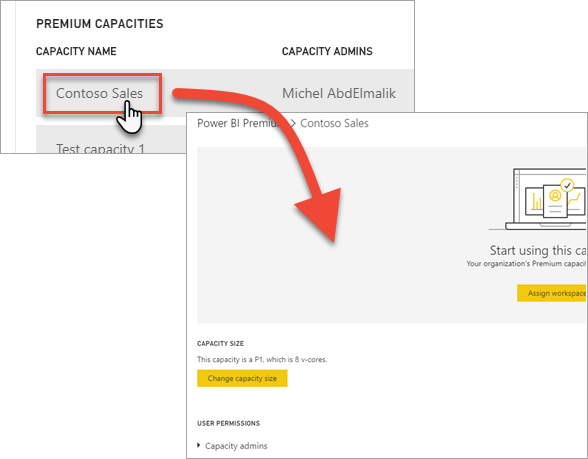
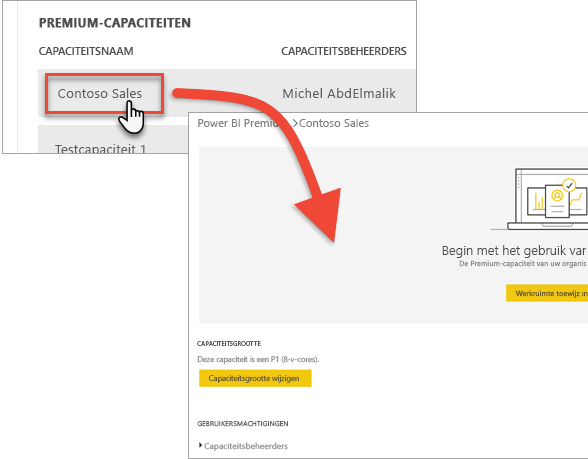
commit translated contents

diff --git a/powerbi-docs/collaborate-share/service-new-workspaces.md b/powerbi-docs/collaborate-share/service-new-workspaces.md
@@ -9,34 +9,34 @@ ms.topic: conceptual
 ms.date: 05/07/2020
 ms.author: maggies
 LocalizationGroup: Share your work
-ms.openlocfilehash: c534a72594692c5cf404b095492e7d6425f23329
-ms.sourcegitcommit: 0e9e211082eca7fd939803e0cd9c6b114af2f90a
+ms.openlocfilehash: 701f478ce4dd59d77c1722b1386cd79ad3fbf2a0
+ms.sourcegitcommit: 250242fd6346b60b0eda7a314944363c0bacaca8
 ms.translationtype: HT
 ms.contentlocale: nl-NL
-ms.lasthandoff: 05/13/2020
-ms.locfileid: "83273656"
+ms.lasthandoff: 05/20/2020
+ms.locfileid: "83693774"
 ---
 # <a name="organize-work-in-the-new-workspaces-in-power-bi"></a>Werk organiseren in de nieuwe werkruimten in Power BI
 
 *Werkruimten* zijn plekken waar u met collega’s kunt samenwerken om verzamelingen dashboards, rapporten, gegevenssets en gepagineerde rapporten te maken. De nieuwe werkruimte-ervaring helpt om de toegang tot inhoud beter te beheren. Dit artikel beschrijft de nieuwe werkruimten, en hoe deze verschillen van de klassieke werkruimten.  Net als de klassieke werkruimten gebruikt u de nieuwe werkruimten ook om apps te maken en distribueren. Klaar om een nieuwe werkruimte te maken? Lees [Werkruimten maken (nieuwe werkruimte-ervaring)](service-create-the-new-workspaces.md).
 
-Nieuwe werkruimten kunnen naast bestaande klassieke werkruimten worden gebruikt. De nieuwe werkruimte-ervaring is het standaardtype werkruimte. Zo nodig kunt u nog steeds [klassieke werkruimten](service-create-workspaces.md) op basis van Office 365-groepen maken en gebruiken. Klaar om uw klassieke werkruimte te migreren? Zie [Een upgrade uitvoeren van de klassieke werkruimten naar de nieuwe werkruimten in Power BI](service-upgrade-workspaces.md) voor meer informatie.
+Nieuwe werkruimten kunnen naast bestaande klassieke werkruimten worden gebruikt. De nieuwe werkruimte-ervaring is het standaardtype werkruimte. Zo nodig kunt u nog steeds [klassieke werkruimten](service-create-workspaces.md) op basis van Microsoft 365-groepen maken en gebruiken. Klaar om uw klassieke werkruimte te migreren? Zie [Een upgrade uitvoeren van de klassieke werkruimten naar de nieuwe werkruimten in Power BI](service-upgrade-workspaces.md) voor meer informatie.
 
 Met de nieuwe werkruimten kunt u het volgende doen:
 
-- Werkruimterollen toewijzen aan gebruikersgroepen: beveiligingsgroepen, distributielijsten, Office 365-groepen en personen.
-- Een werkruimte in Power BI maken zonder een onderliggende, gekoppelde Office 365-groep te maken. Alle werkruimtebeheer vindt plaats in Power BI, niet in Office 365.
-- Desgewenst kunt u doorgaan het beheren van de gebruikerstoegang tot inhoud via Office 365-groepen. Hiertoe hoeft u slechts een Office 365-groep toe te voegen aan de toegangslijst voor de werkruimte.
+- Werkruimterollen toewijzen aan gebruikersgroepen: beveiligingsgroepen, distributielijsten, Microsoft 365-groepen en personen.
+- Een werkruimte in Power BI maken zonder een onderliggende, gekoppelde Microsoft 365-groep te maken. Alle werkruimtebeheer vindt plaats in Power BI, niet in Microsoft 365.
+- Desgewenst kunt u doorgaan met het beheren van de gebruikerstoegang tot inhoud via Microsoft 365-groepen. Hiertoe hoeft u slechts een Microsoft 365-groep toe te voegen aan de toegangslijst voor de werkruimte.
 - Meer gedetailleerde werkruimterollen gebruiken voor flexibeler beheer van machtigingen in een werkruimte.
 
-In Power BI worden nog steeds alle Office 365-groepen weergegeven waarvan u lid bent. Hiermee wordt voorkomen dat bestaande werkstromen moeten worden gewijzigd.
+In Power BI worden nog steeds alle Microsoft 365-groepen weergegeven waarvan u lid bent. Hiermee wordt voorkomen dat bestaande werkstromen moeten worden gewijzigd.
 
 ## <a name="new-and-classic-workspace-differences"></a>Verschillen tussen nieuwe en klassieke werkruimten
 
 Voor de nieuwe werkruimten hebben wij enkele functies opnieuw ontworpen. Dit zijn de belangrijkste verschillen.
 
-* Wanneer u deze werkruimten maakt, worden er geen Office 365-groepen gemaakt, zoals bij klassieke werkruimten. U kunt nu echter een Office 365-groep gebruiken om gebruikers toegang tot uw werkruimte te geven door een rol toe te wijzen. 
-* In klassieke werkruimten kunt u alleen individuen toevoegen aan de lijsten met leden en beheerders. In de nieuwe werkruimten kunt u meerdere Active Directory-beveiligingsgroepen, distributielijsten of Office 365-groepen toevoegen aan deze lijsten om het beheer van gebruikers eenvoudiger te maken. 
+- Wanneer u deze werkruimten maakt, worden er geen Microsoft 365-groepen gemaakt, zoals bij klassieke werkruimten. U kunt nu echter een Microsoft 365-groep gebruiken om gebruikers toegang tot uw werkruimte te geven door een rol toe te wijzen.
+- In klassieke werkruimten kunt u alleen individuen toevoegen aan de lijsten met leden en beheerders. In de nieuwe werkruimten kunt u meerdere Active Directory-beveiligingsgroepen, distributielijsten of Microsoft 365-groepen toevoegen aan deze lijsten om het beheer van gebruikers eenvoudiger te maken.
 - U kunt een organisatie-inhoudspakket maken op basis van een klassieke werkruimte. U kunt geen organisatie-inhoudspakket op basis van de nieuwe werkruimten maken.
 - U kunt een organisatie-inhoudspakket uit een klassieke werkruimte gebruiken. U kunt geen organisatie-inhoudspakket op basis van de nieuwe werkruimten gebruiken.
 
@@ -47,7 +47,7 @@ Sommige functies werken in de nieuwe werkruimten anders dan in de huidige werkru
 - **Afdwingen van licenties**: Bij het publiceren van rapporten naar de nieuwe werkruimte-ervaring worden bestaande licentieregels afgedwongen. Gebruikers die in werkruimten samenwerken of inhoud delen met andere gebruikers in de Power BI-service hebben een Power BI Pro-licentie nodig. Gebruikers zonder een Pro-licentie zien de fout 'Alleen gebruikers met Power BI Pro-licenties kunnen publiceren naar deze werkruimte'.
 - **Leden kunnen inhoud al dan niet opnieuw delen**: De rol Inzender vervangt deze instelling.
 - **Alleen-lezen werkruimten**: In plaats van gebruikers alleen-lezen toegang te geven tot een werkruimte, wijst u gebruikers de rol Lezer toe. Hiermee wordt vergelijkbare alleen-lezen toegang tot de inhoud in een werkruimte toegestaan.
-- **Gebruikers zonder een Pro-licentie** hebben toegang tot de werkruimte als deze zich in een Power BI Premium-capaciteit bevindt, zelfs als gebruikers alleen de rol Lezer hebben.
+- **Gebruikers zonder een Pro-licentie** hebben toegang tot de werkruimte als deze zich in een Power BI Premium-capaciteit bevindt, maar alleen als zij beschikken over de rol Kijker.
 - **Gebruikers toestaan gegevens te exporteren**: Gebruikers met de rol Lezer kunnen gegevens exporteren als ze de samenstellingsmachtiging hebben voor de gegevenssets in de werkruimte. Meer informatie over [Samenstellingsmachtiging voor gegevenssets](../connect-data/service-datasets-build-permissions.md).
 - Geen knop **Werkruimte verlaten**.
 
@@ -59,9 +59,9 @@ Lees hier meer over het [instellen van de lijst met contactpersonen voor een wer
 
 ### <a name="workspace-onedrive"></a>Werkruimte op OneDrive
 
-Met de functie Werkruimte op OneDrive kunt u een Office 365-groep configureren waarvan de bestandsopslag uit de SharePoint-documentbibliotheek beschikbaar voor werkruimtegebruikers. U maakt de groep buiten Power BI.
+Met de functie Werkruimte op OneDrive kunt u een Microsoft 365-groep configureren waarvan de bestandsopslag uit de SharePoint-documentbibliotheek beschikbaar is voor werkruimtegebruikers. U maakt de groep buiten Power BI.
 
-Power BI biedt geen synchronisatie voor machtigingen van gebruikers of groepen die zijn geconfigureerd voor werkruimtetoegang met behulp van het lidmaatschap van een Office 365-groep. De aanbevolen procedure is om werkruimtetoegang te beheren via dezelfde Office 365-groep waarvan u de bestandsopslag configureert in deze instelling. 
+Power BI biedt geen synchronisatie voor machtigingen van gebruikers of groepen die zijn geconfigureerd voor werkruimtetoegang met behulp van het lidmaatschap van een Microsoft 365-groep. De aanbevolen procedure is om werkruimtetoegang te beheren via dezelfde Microsoft 365-groep waarvan u de bestandsopslag configureert in deze instelling.
 
 Lees meer over hoe u [Werkruimte op OneDrive](service-create-the-new-workspaces.md#workspace-onedrive) instelt en gebruikt.  
 
@@ -69,7 +69,7 @@ Lees meer over hoe u [Werkruimte op OneDrive](service-create-the-new-workspaces.
 
 Als u toegang wilt verlenen tot een nieuwe werkruimte, voegt u groepen met gebruikers of individuele gebruikers toe aan een van de werkruimterollen: beheerders, leden, inzenders of lezers. Iedereen in een gebruikersgroep krijgt de rol die u hebt gedefinieerd. Als iemand deel uitmaakt van verschillende gebruikersgroepen, krijgt hij of zij het hoogste machtigingsniveau dat aan de toegewezen rollen is toegewezen.
 
-U kunt met rollen bepalen wie wat kan doen in een werkruimte, zodat teams kunnen samenwerken. U kunt met nieuwe werkruimten rollen toewijzen aan personen en aan gebruikersgroepen: beveiligingsgroepen, Office 365-groepen en distributielijsten. 
+U kunt met rollen bepalen wie wat kan doen in een werkruimte, zodat teams kunnen samenwerken. U kunt met nieuwe werkruimten rollen toewijzen aan personen en aan gebruikersgroepen: beveiligingsgroepen, Microsoft 365-groepen en distributielijsten.
 
 Wanneer u rollen aan een gebruikersgroep toewijst, hebben de personen in de groep toegang tot de inhoud. Als u gebruikersgroepen nest, zijn alle ingesloten gebruikers gemachtigd.
 
@@ -125,11 +125,11 @@ Nee. Koppelingen naar bestaande items in klassieke werkruimten worden niet beïn
 
 **Worden bestaande werkruimten bijgewerkt naar de nieuwe werkruimte-ervaring bij algemene beschikbaarheid?**
 
-Nee. De algemene beschikbaarheid zorgt er alleen voor dat het type van de standaardwerkruimte wordt gewijzigd in de nieuwe werkruimte-ervaring. Bestaande klassieke werkruimten die zijn gebaseerd op Office 365-groepen blijven ongewijzigd.
+Nee. De algemene beschikbaarheid zorgt er alleen voor dat het type van de standaardwerkruimte wordt gewijzigd in de nieuwe werkruimte-ervaring. Bestaande klassieke werkruimten die zijn gebaseerd op Microsoft 365-groepen blijven ongewijzigd.
 
-**Worden er nog steeds automatisch werkruimten gemaakt voor Office 365-groepen?**
+**Worden er nog steeds automatisch werkruimten gemaakt voor Microsoft 365-groepen?**
 
-Ja. Omdat we beide typen werkruimten naast elkaar ondersteunen, blijven we in de lijst met werkruimten alle Office 365-groepen weergeven waartoe u toegang hebt.
+Ja. Omdat we beide typen werkruimten naast elkaar ondersteunen, blijven we in de lijst met werkruimten alle Microsoft 365-groepen weergeven waartoe u toegang hebt.
 
 ## <a name="next-steps"></a>Volgende stappen
 

diff --git a/powerbi-docs/learning-catalog/learning-catalog-functional-consultant.md b/powerbi-docs/learning-catalog/learning-catalog-functional-consultant.md
@@ -6,12 +6,12 @@ ms.prod: powerbi
 ms.topic: article
 ms.date: 03/25/2020
 ms.author: v-lshann
-ms.openlocfilehash: 0a0964f82c80017b53feb668cca8399b18a72cfc
-ms.sourcegitcommit: 7aa0136f93f88516f97ddd8031ccac5d07863b92
+ms.openlocfilehash: 8d7642dfbac40b3a31190bc02835a4132ee12e11
+ms.sourcegitcommit: a72567f26c1653c25f7730fab6210cd011343707
 ms.translationtype: HT
 ms.contentlocale: nl-NL
-ms.lasthandoff: 05/05/2020
-ms.locfileid: "81268507"
+ms.lasthandoff: 05/19/2020
+ms.locfileid: "83564070"
 ---
 # <a name="functional-application-consultant-learning-catalog"></a>Trainingscatalogus voor functionele toepassingsconsultants
 
@@ -82,7 +82,7 @@ Uit onze taakanalyse blijkt dat alle functionele consultants begrip moeten hebbe
 | [Samen beter: 5 voordelen die Excel-gebruikers uit het gebruik van Power BI kunnen halen](https://info.microsoft.com/excel-powerbi-better-together-ondemand.html)  | Excel is een van de populairste programma's ter wereld. Miljoenen personen en bedrijven maken er gebruik van voor van alles, van eenvoudige gegevensinvoer en boekhouding tot geavanceerdere statistische analyses en gegevensanalyses. Veel mensen realiseren zich echter niet dat ze de functionaliteit van Excel aanzienlijk kunnen uitbreiden en tijd kunnen besparen alsmede hun efficiëntie kunnen verhogen, wanneer ze Excel koppelen aan een ander Microsoft-programma: Power BI. We gaan vijf verschillende redenen verkennen waarom u en uw bedrijf kunnen profiteren van het gebruik van Excel in combinatie met Power BI. Aan het einde beschikt u over alle kennis die u nodig hebt om uw organisatie de mogelijkheid te bieden om snel uw gegevens te analyseren, te interpreteren en te kapitaliseren. | Webinar |   |
 | [Meer doen met spreadsheets](https://info.microsoft.com/CA-PowerBI-WBNR-FY18-05May-09-DataBeyondtheSpreadsheet-MCW0006385_02OnDemandRegistration-ForminBody.html)  | Oproep aan alle Excel-gebruikers en -analisten: werk slimmer, lever meer waarde en richt u op wat belangrijk is. Leer prachtige rapporten te maken die mensen willen gebruiken, gegevens zodanig visueel te delen dat deze zonder enige uitleg door collega's worden begrepen en inzichten toegankelijk te maken voor alle personen die inzichten uit informatie willen, waar ze ook zijn. Zie Microsoft Power BI in actie in deze onlinesessie.  | Webinar |   |
 | [De juiste inzichten visualiseren met Power BI en Visio](https://info.microsoft.com/ww-ondemand-powerbi-and-visio.html) | Neem deel aan dit webinar voor informatie over het combineren van Power BI-dashboards en Microsoft Visio-diagrammen om krachtige visuele inzichten te maken. Visio en Power BI hebben een sterk visueel karakter en vullen elkaar aan. In Visio kunt u illustratieve diagrammen maken, zoals onderling verbonden werkstromen en lay-outs uit de praktijk. Met Power BI kunt u intuïtieve dashboards maken met behulp van grafieken en kaarten waarmee u de KPI's kunt meten en de doelstellingen kunt volgen.| Webinar |   |
-| [Power BI, Excel en Office 365: uw ondernemingsgegevens optimaliseren](https://info.microsoft.com/Unlocking-the-Value-of-your-Enterprise-Data-OnDemandRegistration.html?Is=Website)  | In deze sessie met uitgebreide demo's leert u hoe u de unieke kracht van Microsoft Excel in Power BI kunt gebruiken om uw bedrijfsanalyses en inzichten te verbeteren.  | Webinar |   |
+| [Power BI, Excel en Microsoft 365: uw ondernemingsgegevens optimaliseren](https://info.microsoft.com/Unlocking-the-Value-of-your-Enterprise-Data-OnDemandRegistration.html?Is=Website)  | In deze sessie met uitgebreide demo's leert u hoe u de unieke kracht van Microsoft Excel in Power BI kunt gebruiken om uw bedrijfsanalyses en inzichten te verbeteren.  | Webinar |   |
 | [Power BI met Dynamics 365 voor Finance and Operations gebruiken](https://info.microsoft.com/ww-landing-Using-Power-BI-with-Dynamics-365-Finance-and-Operations-OnDemand.html)   | Registreer u voor deze webinar om te leren hoe Power BI rapportageoplossingen kunnen worden ingesloten en beheerd in Dynamics 365 Finance and Operations met behulp van Azure Data Lake. Ontdek hoe u snel bruikbare inzichten kunt bieden zonder serviceonderbrekingen en analytische oplossingen kunt delen met behulp van Power BI.  | Webinar |   |
 ## <a name="security"></a>Beveiliging<a name="security"></a>
 | Inhoud   | Beschrijving  | Indeling   | Lengte   |

diff --git a/powerbi-docs/report-server/get-started.md b/powerbi-docs/report-server/get-started.md
@@ -4,17 +4,17 @@ description: U kunt een overzicht krijgen van Power BI Report Server zodat u beg
 keywords: ''
 author: maggiesMSFT
 ms.author: maggies
-ms.date: 04/29/2020
+ms.date: 05/14/2020
 ms.topic: overview
 ms.service: powerbi
 ms.subservice: powerbi-report-server
 ms.custom: mvc
-ms.openlocfilehash: 39ccb9120b7dd61d7f160c296d2de799b7f3fe23
-ms.sourcegitcommit: bfc2baf862aade6873501566f13c744efdd146f3
+ms.openlocfilehash: 55a3614c5da2ea8b5ea1a8cbb6ee87b20c542df4
+ms.sourcegitcommit: 6ba7cc9afaf91229f717374bc0c12f0b8201d15e
 ms.translationtype: HT
 ms.contentlocale: nl-NL
-ms.lasthandoff: 05/13/2020
-ms.locfileid: "83141110"
+ms.lasthandoff: 05/16/2020
+ms.locfileid: "83438287"
 ---
 # <a name="what-is-power-bi-report-server"></a>Wat is Power BI Report Server?
 
@@ -26,7 +26,7 @@ Power BI Report Server is een on-premises rapportserver met een webportal waarin
 Power BI Report Server lijkt op zowel SQL Server Reporting Services als de online Power BI-service, maar er zijn verschillen. Net als de Power BI-service host Power BI Report Server Power BI-rapporten (PBIX), Excel-bestanden en gepagineerde rapporten (RDL). Power BI Report Server wordt net als Reporting Services on-premises uitgevoerd. De functies van Power BI Report Server zijn een uitbreiding op de functies van Reporting Services: alles wat u kunt doen in Reporting Services, kunt u doen met Power BI Report Server. Daarnaast biedt het ondersteuning voor Power BI-rapporten. Zie [Comparing Power BI Report Server and the Power BI service](compare-report-server-service.md) (Power BI Report Server vergelijken met de Power BI-service) voor meer informatie.
 
 ## <a name="licensing-power-bi-report-server"></a>Licenties voor Power BI Report Server
-Power BI Report Server is beschikbaar via twee verschillende licenties: [Power BI Premium](../admin/service-premium-what-is.md) en [SQL Server Enterprise Edition](https://www.microsoft.com/sql-server/sql-server-2017-editions) met Software Assurance. Met een licentie voor Power BI Premium kunt u een hybride implementatie maken waarin de cloud en uw on-premises omgeving gemengd zijn.  
+Power BI Report Server is beschikbaar via twee verschillende licenties: [Power BI Premium](../admin/service-premium-what-is.md) en SQL Server Enterprise Edition met Software Assurance. Zie [Microsoft Volume Licensing](https://www.microsoftvolumelicensing.com/DocumentSearch.aspx?Mode=3&DocumentTypeId=1&ShowArchived=True) voor meer informatie. Met een licentie voor Power BI Premium kunt u een hybride implementatie maken waarin de cloud en uw on-premises omgeving gemengd zijn.  
 
 > [!NOTE]
 > Bij Power BI Premium is de Power BI Report Server alleen opgenomen in P-SKU's. Deze is niet opgenomen in EM-SKU's.

diff --git a/powerbi-docs/create-reports/desktop-drill-through-buttons.md b/powerbi-docs/create-reports/desktop-drill-through-buttons.md
@@ -6,19 +6,19 @@ ms.reviewer: ''
 ms.service: powerbi
 ms.subservice: powerbi-service
 ms.topic: conceptual
-ms.date: 03/12/2020
+ms.date: 05/19/2020
 ms.author: maggies
 LocalizationGroup: Create reports
-ms.openlocfilehash: d3cb3c8093446d4417a59c5f64ab6b85a765e3c8
-ms.sourcegitcommit: 0e9e211082eca7fd939803e0cd9c6b114af2f90a
+ms.openlocfilehash: 562e011bf280930fdcaf19cc87edc97b2bec131b
+ms.sourcegitcommit: 250242fd6346b60b0eda7a314944363c0bacaca8
 ms.translationtype: HT
 ms.contentlocale: nl-NL
-ms.lasthandoff: 05/13/2020
-ms.locfileid: "83301512"
+ms.lasthandoff: 05/20/2020
+ms.locfileid: "83694047"
 ---
-# <a name="create-a-drill-through-button-in-power-bi-preview"></a>Een analyseknop maken in Power BI (preview-versie)
+# <a name="create-a-drill-through-button-in-power-bi"></a>Een analyseknop maken in Power BI
 
-Wanneer u een knop maakt in Power BI, kunt u de actie **Analyseren (preview)** selecteren. Met dit actietype maakt u een knop die inzoomt op een pagina met focus om details weer te geven die zijn gefilterd op een specifieke context.
+Wanneer u een knop maakt in Power BI, kunt u de actie **Analyseren** selecteren. Met dit actietype maakt u een knop die inzoomt op een pagina met focus om details weer te geven die zijn gefilterd op een specifieke context.
 
 Een analyseknop kan handig zijn als u de detectie van belangrijke analysescenario's in uw rapporten wilt vergroten.
 
